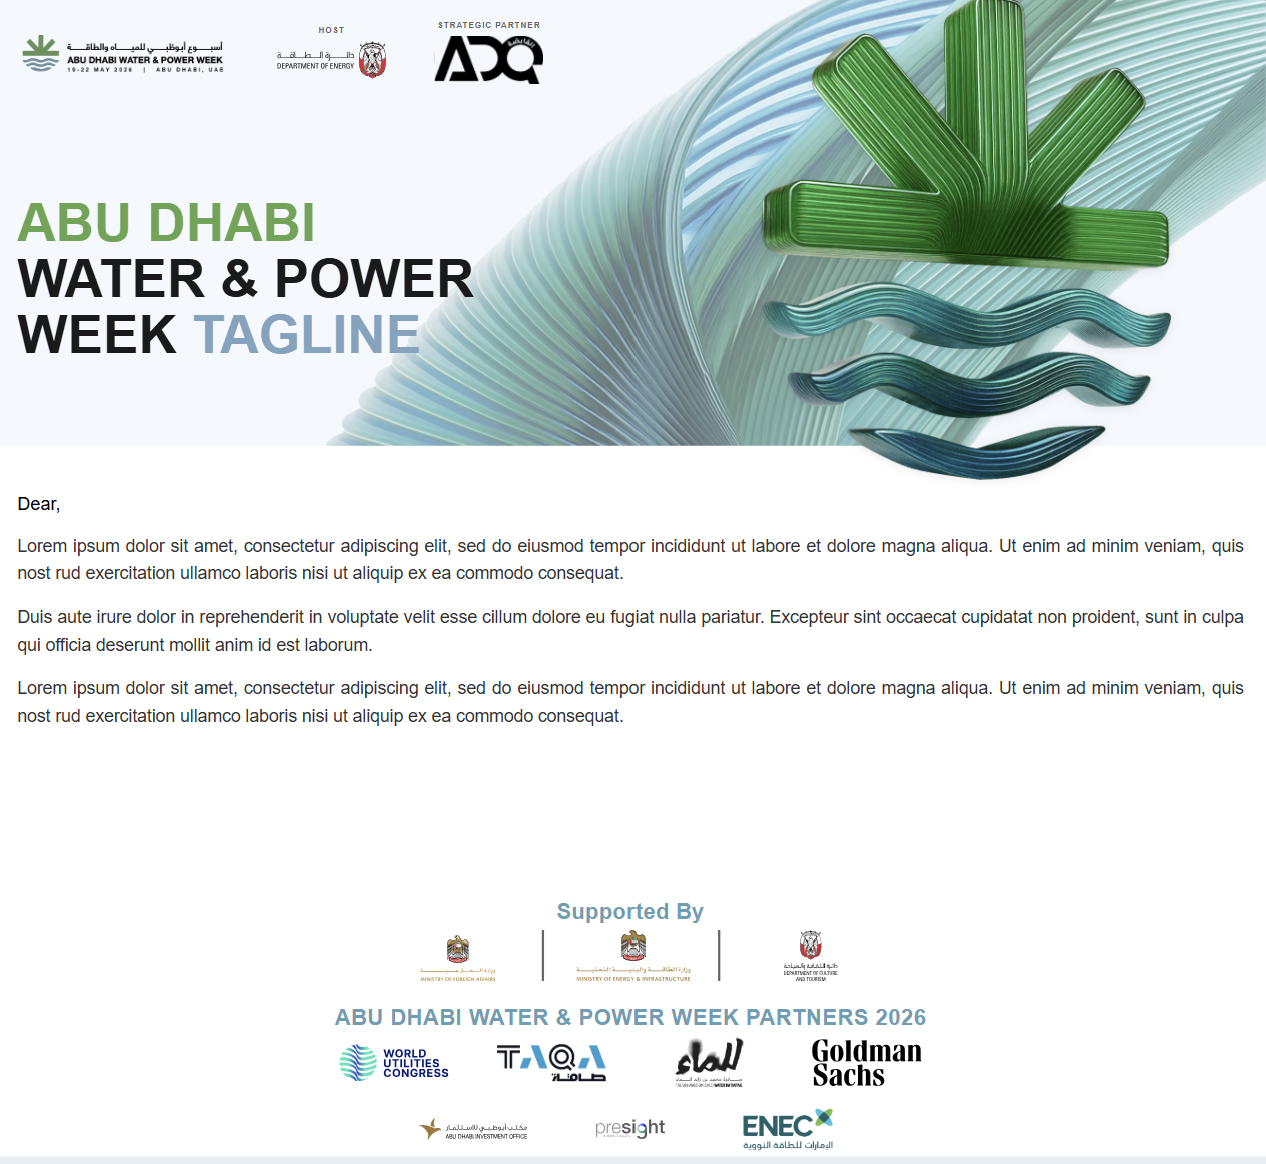
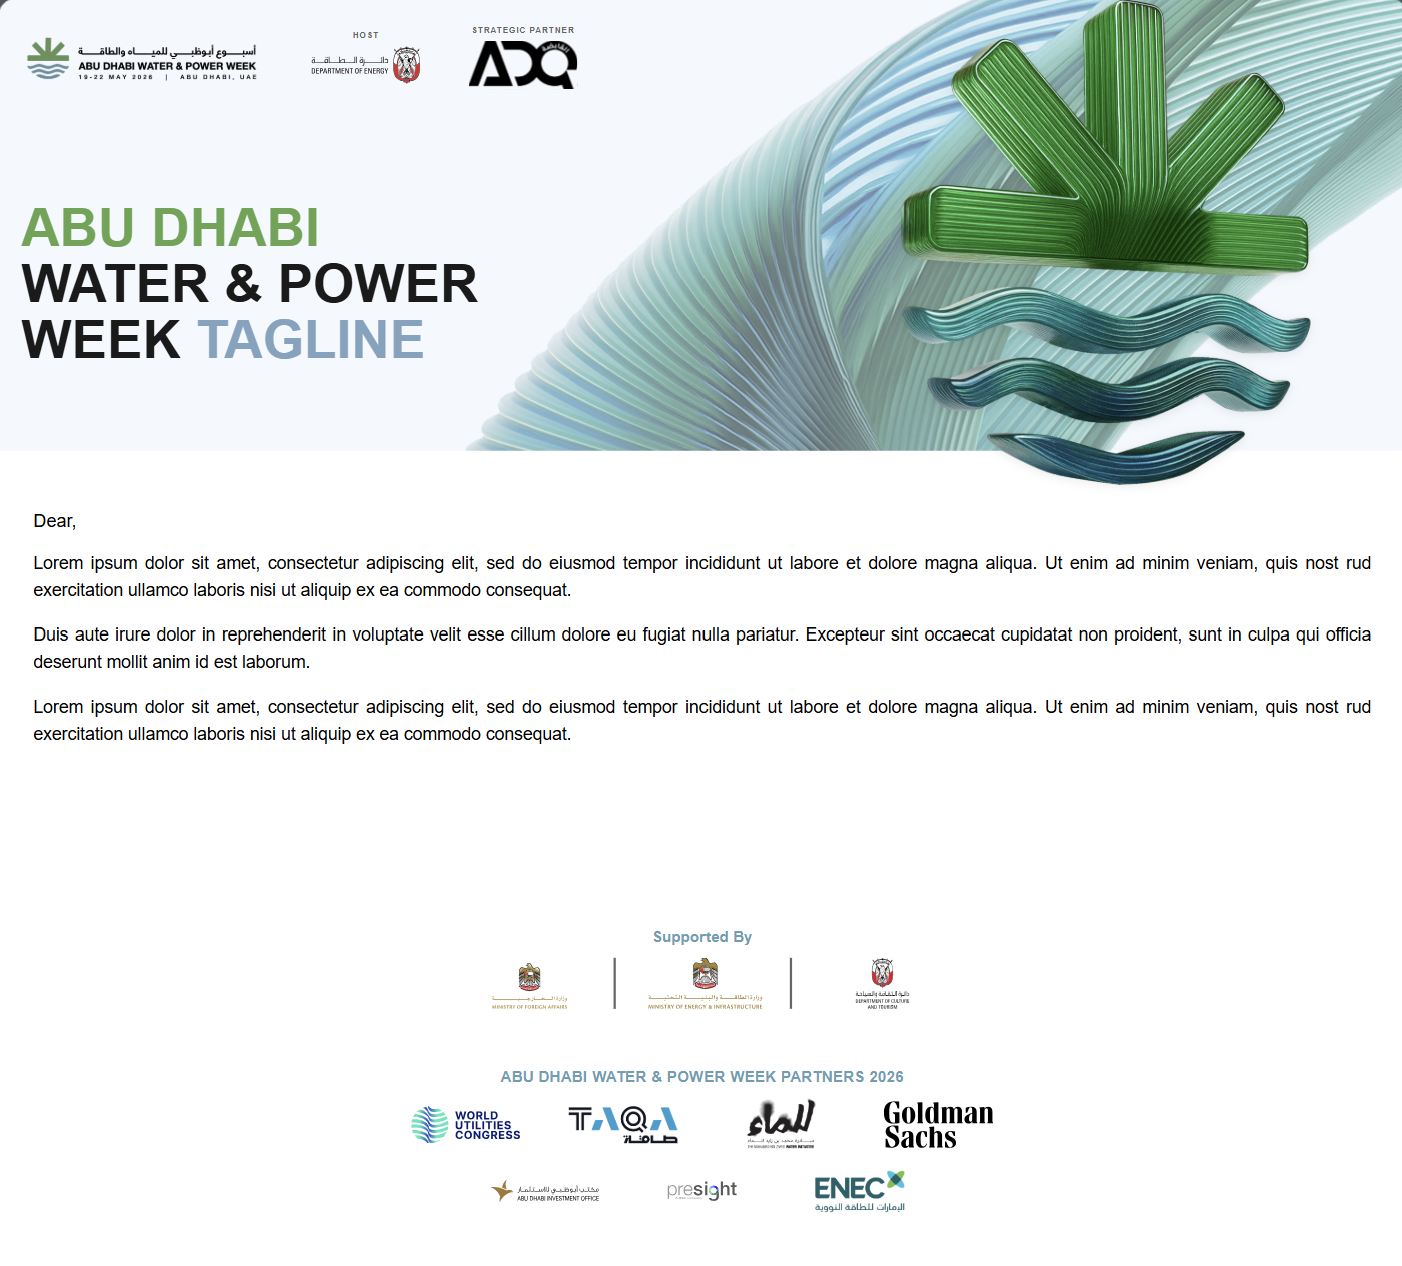
Changed the fontcoloir and output image

diff --git a/30-Jan-2026/index.css b/30-Jan-2026/index.css
@@ -233,7 +233,7 @@ body {
     font-size: 14.5px;
     line-height: 1.55;
     margin-bottom: 14px;
-    color: #333;
+    color: #000;
     text-align: justify;
 }
 .sponsers {
